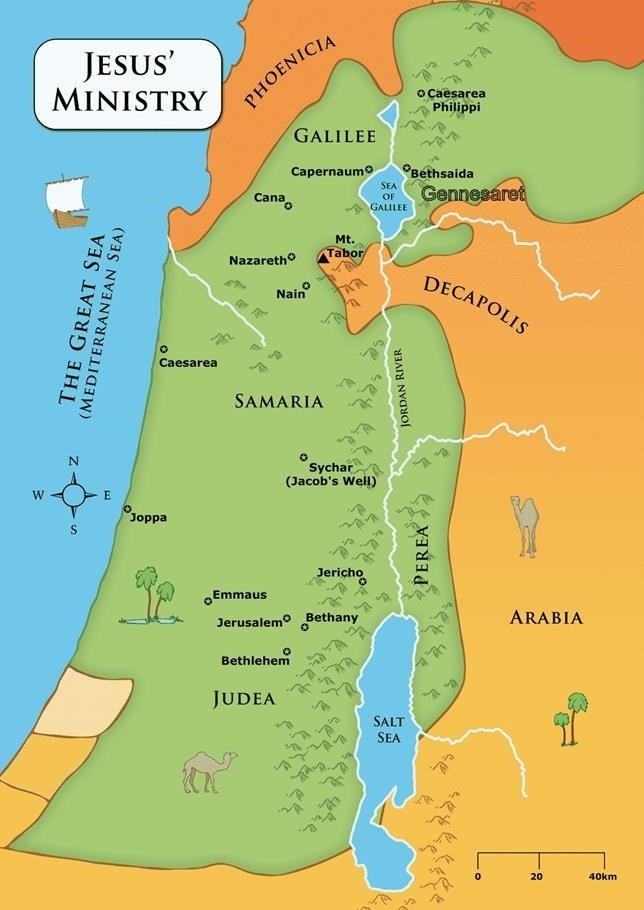
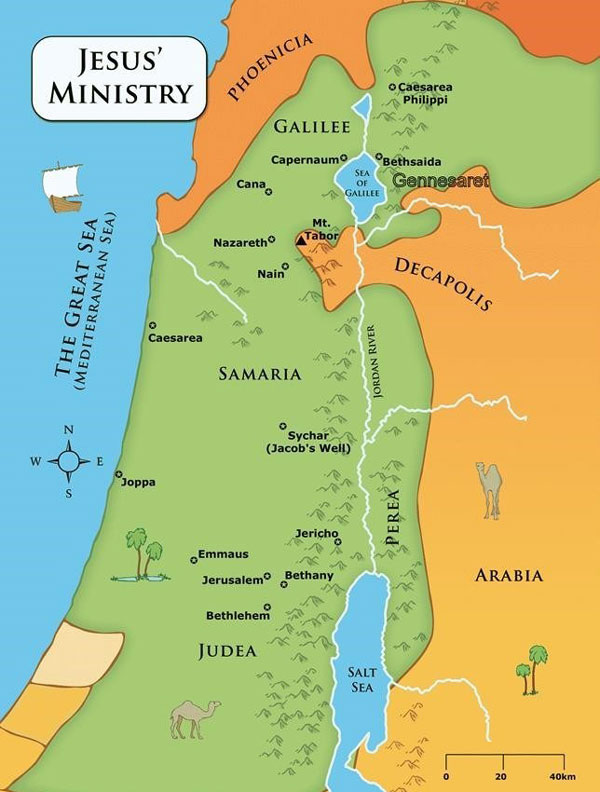
add Play button and adjusted proportion

diff --git a/app.js b/app.js
@@ -1,3 +1,5 @@
+let actionCount = 0;
+
 $(() => {
   $('#startButton').on('click', (event) => {
     $('.timeLine').empty();
@@ -8,54 +10,68 @@ $(() => {
     $('.timeLine').append($div);
     }
     event.stopPropagation();
-});
+  });
 
-$('div').on('click', '.timeLine', (event) => {
-    //getting class name when click the list of text
-    const $target = event.target.className ;
-    $('.textArea').empty();
-    const $div = $('<div>').attr('class', "text"+$target).html(detailArr[$target]);
-    $('.textArea').append($div);
-    // moving the fish
-    if ($target == 0 || $target == 3 || $target == 6 || $target == 10 || $target == 17 || $target == 27 || $target == 29 || $target == 36 || $target == 37 || $target == 38 || $target == 39 ||
-      $target == 40 || $target == 41 || $target == 42 || $target == 43 || $target == 44 || $target == 45) {
-      $('#fish').animate(jerusalem);}
-    else if ($target == 1 || $target == 5 || $target == 13 || $target == 21) {
-      $('#fish').animate(nazareth);}
-    else if ($target == 28 || $target == 31 || $target == 35) {
-      $('#fish').animate(bethany);}
-    else if ($target == 16 || $target == 19 || $target == 26) {
-      $('#fish').animate(capernaum);}
-    else if ($target == 12 || $target == 14 || $target == 15 || $target == 20 || $target == 22 || $target == 46) {
-      $('#fish').animate(seaOfGalilee);}
-    else if ($target == 7 || $target == 30) {$('#fish').animate(jordan);}
-    else if ($target == 2) {$('#fish').animate(bethlehem);}
-    else if ($target == 4) {$('#fish').animate(egypt);}
-    else if ($target == 11) {$('#fish').animate(samaria);}
-    else if ($target == 18) {$('#fish').animate(nain);}
-    else if ($target == 9) {$('#fish').animate(cana);}
-    else if ($target == 23) {$('#fish').animate(tyre);}
-    else if ($target == 24) {$('#fish').animate(bethsaida);}
-    else if ($target == 25) {$('#fish').animate(caesarea);}
-    else if ($target == 32) {$('#fish').animate(ephraim);}
-    else if ($target == 8 || $target == 33) {$('#fish').animate(judea);}
-    else if ($target == 34) {$('#fish').animate(jericho);}
-    event.stopPropagation();
-});
+  $('#Play').on('click', (event) => {
+    const $target = $(".0").attr('class');
+    const target = parseInt($target)+actionCount;
+    moveFish(target);
+    actionCount++;
+    if (actionCount >= detailArr.length) {
+      actionCount = 0;
+    }
+  });
+
+  $('div').on('click', '.timeLine', (event) => {
+    const target = event.target.className ;
+    moveFish(target);
+  });
 
 
-// on click call AJAX function
-$('.textArea').on('click', (event) => {
-  const $target = event.target.className ;
-  for (let i = 0; i < verseArr.length; i++) {
-    if ($target == 'text'+i) {
-    let idx = i;
-    //call bible api
-    callAjax(idx);
+  // on click call AJAX function
+  $('.textArea').on('click', (event) => {
+    const target = event.target.className ;
+    for (let i = 0; i < verseArr.length; i++) {
+      if (target == 'text'+i) {
+      let idx = i;
+      //call bible api
+      callAjax(idx);
+    }
   }
+  });
+});
+
+  // moving the fish
+const moveFish = (target) => {
+  $('.textArea').empty();
+  const $div = $('<div>').attr('class', "text"+target).html('<h4>- '+(parseInt(target)+1)+' -</h4>'+detailArr[target]);
+  $('.textArea').append($div);
+  if (target == 0 || target == 3 || target == 6 || target == 10 || target == 17 || target == 27 || target == 29 || target == 36 || target == 37 || target == 38 || target == 39 ||
+    target == 40 || target == 41 || target == 42 || target == 43 || target == 44 || target == 45) {
+    $('#fish').animate(jerusalem);}
+  else if (target == 1 || target == 5 || target == 13 || target == 21) {
+    $('#fish').animate(nazareth);}
+  else if (target == 28 || target == 31 || target == 35) {
+    $('#fish').animate(bethany);}
+  else if (target == 16 || target == 19 || target == 26) {
+    $('#fish').animate(capernaum);}
+  else if (target == 12 || target == 14 || target == 15 || target == 20 || target == 22 || target == 46) {
+    $('#fish').animate(seaOfGalilee);}
+  else if (target == 7 || target == 30) {$('#fish').animate(jordan);}
+  else if (target == 2) {$('#fish').animate(bethlehem);}
+  else if (target == 4) {$('#fish').animate(egypt);}
+  else if (target == 11) {$('#fish').animate(samaria);}
+  else if (target == 18) {$('#fish').animate(nain);}
+  else if (target == 9) {$('#fish').animate(cana);}
+  else if (target == 23) {$('#fish').animate(tyre);}
+  else if (target == 24) {$('#fish').animate(bethsaida);}
+  else if (target == 25) {$('#fish').animate(caesarea);}
+  else if (target == 32) {$('#fish').animate(ephraim);}
+  else if (target == 8 || target == 33) {$('#fish').animate(judea);}
+  else if (target == 34) {$('#fish').animate(jericho);}
 }
-});
-});
+
+
 
 //bible api ajax function
 const callAjax = (idx) => {

diff --git a/main.css b/main.css
@@ -9,17 +9,18 @@ body {
   background-size: cover;
 }
 
-#startButton {
-  background-color: Chocolate ;
+#startButton, #Play {
+  display: inline-block;
+  background-color: #e27e36;
   color: white;
-  padding: .2em 2em .2em;
-  font-size: 1.1em;
-  border-radius: 10px;
-  display: flex;
-  opacity: 0.8;
-  transition: 0.3s;
+  padding: .2em 1em .2em;
+  font-size: 1em;
+  border-radius: 5px;
+  transition: 0.5s;
+  position: relative;
+
 }
-#startButton:hover {opacity: 1};
+#startButton:hover,#Next:hover,#Previous:hover  {background-color: #dc5c06;}
 
 #map {
   width: auto;
@@ -31,23 +32,22 @@ body {
   display: flex;
   position: relative;
   width: auto;
-  height: 780px;
+  height: 700px;
   overflow: hidden;
   border-radius: 10px;
 }
 
 .rightContainer {
-  display: flex;
+  display: inline-block;
   background-image: url("images/rbackground.jpg");
   background-size: cover;
   position: relative;
-  width: 25%;
-  height: 740px;
-  border-radius: 2%;
+  width: 30%;
+  height: 660px;
+  border-radius: 10px;
   padding: 20px;
-  flex-direction: column;
-  align-items: center;
   margin-left: 1%;
+  text-align: center;
 }
 
 h4 {
@@ -59,7 +59,8 @@ h4 {
   right: 5%;
   top: 35%;
   width: 100%;
-  height: 80%;
+  height: 59%;
+  margin-top: 4%;
   border-radius: 10px;
   text-align: left;
   padding-top: 5%;
@@ -80,11 +81,11 @@ h4 {
   background-color: white;
   border-radius: 10px;
   width: 100%;
-  height: 20%;
+  height: 30%;
   justify-content: center;
-  margin: 3%;
   overflow-y: auto;
   opacity: 0.9;
+  margin-top: 4%;
 }
 
 .textArea div {
@@ -124,18 +125,19 @@ h4 {
     padding: 8px;
     position: fixed;
     width: 100%;
-    height: 250px;
+    height: 200px;
     margin: 0 auto;
     text-align: center;
 
   }
   .timeLine {
-    display: inline-block;
+    display: none;
     width: 100%;
-    height: 40%;
-    padding-top: 1%;
+    height: 15%;
     background-color: AntiqueWhite;
     overflow-y:scroll;
+    margin-top: 2%;
+    border-radius: 0;
   }
 
   h4 {
@@ -161,19 +163,19 @@ h4 {
   .textArea {
     display: inline-block;
     background-color: white ;
-    border-radius: 10px;
+    border-radius: 0;
+    margin-top: 2%;
     width: 100%;
-    height: 50%;
-    margin: 2%;
+    height: 75%;
     overflow-y: auto;
   }
 
 
-  #startButton {
+    #startButton, #Play {
     background-color: Chocolate;
     color: white;
-    padding: .1em 3em .1em;
-    font-size: 1.1em;
+    padding: .3em 2em .3em;
+    font-size: 1.2em;
     border-radius: 10px;
     display: inline-block;
   }

diff --git a/array.js b/array.js
@@ -1,21 +1,21 @@
 //global variable for position of city
-const jerusalem = {top: '66%', left: '38%'};
-const bethlehem = {top: '70%', left: '40%'};
-const bethany = {top: '67%', left: '43%'};
-const jericho = {top: '62%', left: '50%'};
-const jordan = {top: '61%', left: '58%'};
-const samaria = {top: '42%', left: '38%'};
-const nain = {top: '30%', left: '42%'};
-const nazareth = {top: '26%', left: '40%'};
-const cana = {top: '21%', left: '40%'};
-const capernaum = {top: '17%', left: '52%'};
-const seaOfGalilee = {top: '20%', left: '56%'};
-const bethsaida = {top: '17%', left: '59%'};
-const tyre = {top: '2%', left: '33%'};
+const jerusalem = {top: '71%', left: '38%'};
+const bethlehem = {top: '75%', left: '40%'};
+const bethany = {top: '72%', left: '43%'};
+const jericho = {top: '67%', left: '50%'};
+const jordan = {top: '64%', left: '58%'};
+const samaria = {top: '45%', left: '38%'};
+const nain = {top: '32%', left: '42%'};
+const nazareth = {top: '28%', left: '40%'};
+const cana = {top: '22%', left: '40%'};
+const capernaum = {top: '18%', left: '52%'};
+const seaOfGalilee = {top: '21%', left: '56%'};
+const bethsaida = {top: '18%', left: '59%'};
+const tyre = {top: '1%', left: '33%'};
 const caesarea = {top: '9%', left: '63%'};
-const ephraim = {top: '57%', left: '50%'};
-const judea = {top: '64%', left: '32%'};
-const egypt = {top: '80%', left: '5%'};
+const ephraim = {top: '61%', left: '50%'};
+const judea = {top: '69%', left: '32%'};
+const egypt = {top: '87%', left: '5%'};
 
 
 //bible verse array

diff --git a/index.html b/index.html
@@ -19,6 +19,7 @@
   </div>
   <div class="rightContainer">
     <button id="startButton">Start Trip</button>
+    <button id="Play">Play</button>
     <div class="textArea"><h3>Click the start button to trip!</h3></div>
     <div class="timeLine"></div>
   </div>
